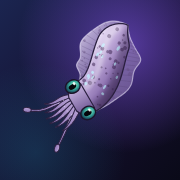
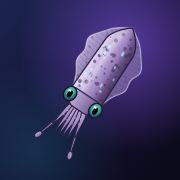
style: 軟絲身體改回直的，保留沿胴體的波浪鰭，腕改成左右對稱

Changed region(s): [[0.1111, 0.1111, 0.8056, 0.8889], [0.1944, 0.6944, 0.2778, 0.7778]]

diff --git a/src/components/squidArt.ts b/src/components/squidArt.ts
@@ -2,8 +2,8 @@
 // 漸細的腕、色素斑點與虹彩亮點，周圍一團柔和的墨汁。
 // App 內的 SquidIcon 與 public/icon.svg（PWA icon）都用這支程式畫，外觀保持一致。
 //
-// 座標系：64 × 64。身體沿著一條微微 S 形的脊線（尾在上、頭在下），
-// 看起來像正在擺動；最後整體旋轉成往右上衝刺。
+// 座標系：64 × 64。身體是直的（尾在上、頭在下），鰭沿著胴體起伏；
+// 最後整體旋轉成往右上衝刺。
 
 type Pt = [number, number];
 
@@ -51,8 +51,8 @@ function taperedArm(p0: Pt, p1: Pt, p2: Pt, p3: Pt, w0: number, w1: number): str
 }
 
 // ---- 身體外形 ----
-/** 脊線：尾 → 頭，微微 S 形 */
-const SPINE: [Pt, Pt, Pt, Pt] = [[29.5, 5], [23.5, 17], [38.5, 30], [32, 43]];
+/** 脊線：尾 → 頭，直的 */
+const SPINE: [Pt, Pt, Pt, Pt] = [[32, 5], [32, 17.7], [32, 30.3], [32, 43]];
 const CX = 32;
 const HEAD_Y = 43;
 
@@ -145,21 +145,21 @@ export function squidMarkup(id: string, opts: { ink?: boolean } = {}): string {
     }
   }
 
-  // 八隻腕：往同一側甩、末端捲起，跟身體的 S 形連成一氣
+  // 八隻腕：左右對稱、往前收攏，末端微微向外彎
   const baseY = 49.5;
   const arms: { b: Pt; c1: Pt; c2: Pt; t: Pt; w: number }[] = [
-    { b: [29, baseY], c1: [25.5, 53.5], c2: [28.5, 58], t: [25.2, 61.8], w: 2.4 },
-    { b: [30.3, baseY], c1: [28, 55], c2: [31.5, 59], t: [28.8, 63.6], w: 2.5 },
-    { b: [31.4, baseY + 0.3], c1: [30.4, 55.5], c2: [33.5, 59.5], t: [31.6, 64.6], w: 2.5 },
-    { b: [32.6, baseY + 0.3], c1: [33, 55.5], c2: [35.6, 59], t: [34.4, 64.2], w: 2.5 },
-    { b: [33.7, baseY], c1: [35.6, 54.5], c2: [37.6, 58], t: [37.2, 62.8], w: 2.4 },
-    { b: [35, baseY], c1: [38, 53.5], c2: [40, 56.5], t: [40.3, 60.8], w: 2.3 },
+    { b: [29, baseY], c1: [27, 54], c2: [27.2, 58.5], t: [25.8, 62.2], w: 2.4 },
+    { b: [30.3, baseY], c1: [29.2, 55], c2: [29.4, 59.5], t: [28.7, 63.8], w: 2.5 },
+    { b: [31.4, baseY + 0.3], c1: [31, 55.5], c2: [31.2, 60], t: [31, 64.8], w: 2.5 },
+    { b: [32.6, baseY + 0.3], c1: [33, 55.5], c2: [32.8, 60], t: [33, 64.8], w: 2.5 },
+    { b: [33.7, baseY], c1: [34.8, 55], c2: [34.6, 59.5], t: [35.3, 63.8], w: 2.5 },
+    { b: [35, baseY], c1: [37, 54], c2: [36.8, 58.5], t: [38.2, 62.2], w: 2.4 },
   ];
   const armPaths = arms.map((a) => taperedArm(a.b, a.c1, a.c2, a.t, a.w, 0.25));
   // 兩條長觸腕，末端是觸腕穗
   const tentacles = [
-    taperedArm([30.5, baseY], [26, 57], [30, 63], [24, 69.5], 1.3, 0.7),
-    taperedArm([33.5, baseY], [38, 56], [42, 61], [45.5, 66.5], 1.3, 0.7),
+    taperedArm([30.5, baseY], [27, 57], [25.5, 63], [23.5, 69.5], 1.3, 0.7),
+    taperedArm([33.5, baseY], [37, 57], [38.5, 63], [40.5, 69.5], 1.3, 0.7),
   ];
 
   const fin = pathFrom(outline(finHalf));
@@ -227,15 +227,15 @@ ${
     <!-- 觸腕與腕 -->
     <g fill="url(#${g("arm")})" stroke="#2b2140" stroke-width="0.45" stroke-linejoin="round">
       ${tentacles.map((d) => `<path d="${d}"/>`).join("")}
-      <ellipse cx="23.6" cy="70.2" rx="1.9" ry="1.15" transform="rotate(-55 23.6 70.2)"/>
-      <ellipse cx="46" cy="67.2" rx="1.9" ry="1.15" transform="rotate(48 46 67.2)"/>
+      <ellipse cx="23.2" cy="70.3" rx="1.9" ry="1.15" transform="rotate(-68 23.2 70.3)"/>
+      <ellipse cx="40.8" cy="70.3" rx="1.9" ry="1.15" transform="rotate(68 40.8 70.3)"/>
       ${armPaths.map((d) => `<path d="${d}"/>`).join("")}
     </g>
     <!-- 腕內側的吸盤點 -->
     <g fill="#efe6fb" opacity="0.55">
-      <circle cx="28.2" cy="53.4" r="0.32"/><circle cx="28.4" cy="56" r="0.28"/><circle cx="31" cy="54.4" r="0.3"/>
-      <circle cx="31.8" cy="57.4" r="0.26"/><circle cx="33.4" cy="54.4" r="0.3"/><circle cx="34.4" cy="57.2" r="0.26"/>
-      <circle cx="35.9" cy="53.4" r="0.32"/><circle cx="37" cy="55.6" r="0.28"/>
+      <circle cx="28.4" cy="53.4" r="0.32"/><circle cx="27.9" cy="56" r="0.28"/><circle cx="30.6" cy="54.4" r="0.3"/>
+      <circle cx="30.2" cy="57.4" r="0.26"/><circle cx="33.4" cy="54.4" r="0.3"/><circle cx="33.8" cy="57.4" r="0.26"/>
+      <circle cx="35.6" cy="53.4" r="0.32"/><circle cx="36.1" cy="56" r="0.28"/>
     </g>
   </g>
 
